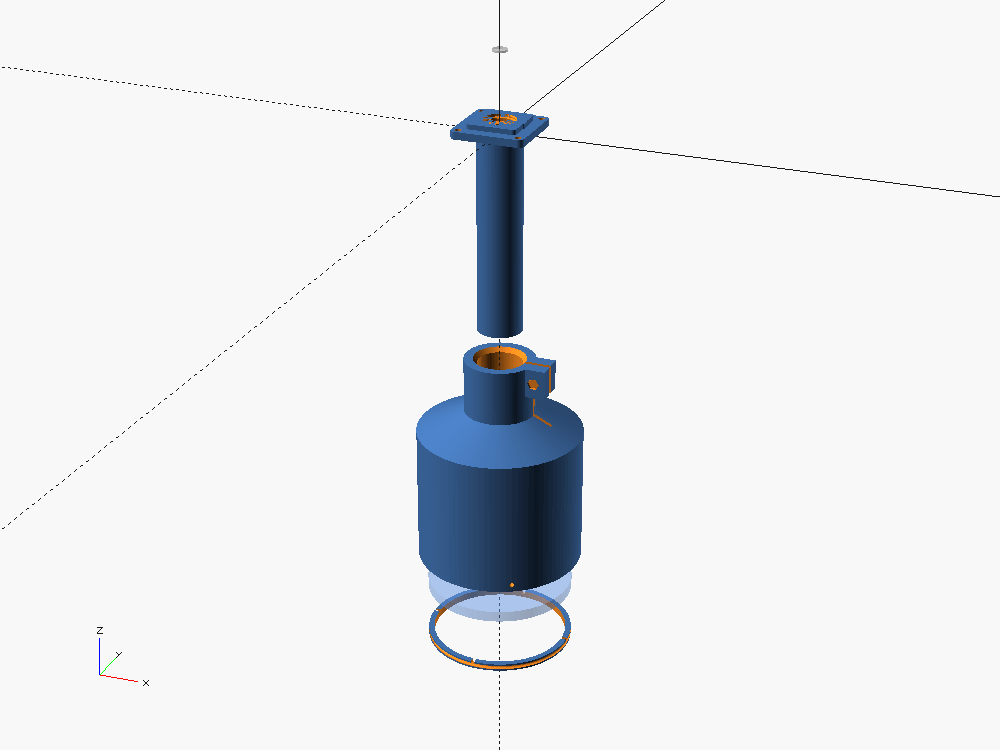
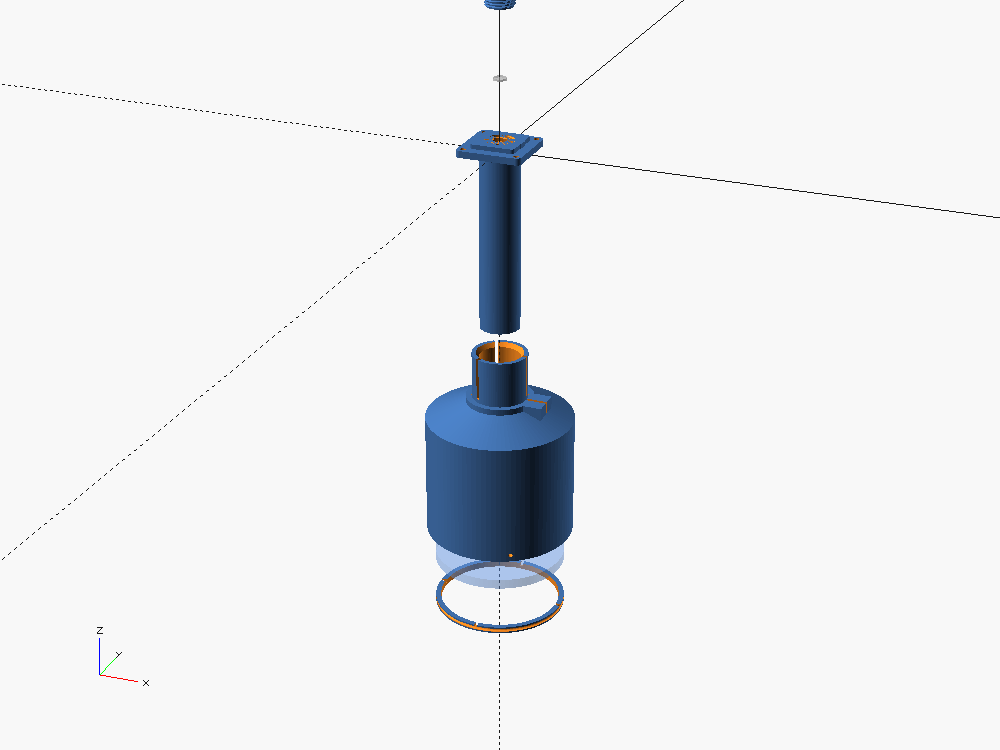
receiver: wrap-around split clamp collar instead of integral pinch lugs
The barrel's rear collar is now a 3-slot collet; a separate `clamp` ring wraps
it and one tangential M4 pinch screw squeezes the collet onto the stem. The ring
also covers the collet slots, so it doubles as a light seal on the split (the
old integral +X pinch lug left the slot open to ambient).

- new part `clamp` (scad/lib/receiver/clamp.scad); parts list + echo updated
- barrel.scad: drop the lug/block, collet OD now derived as `collar_od` in
  params.scad so clamp.scad can size to it; 3 relief slots joined at the base
- docs/receiver-optic.md: clamp description, stray-light note, and a sketch of
  the planned fine-focus helicoid

All parts render 2-manifold; `make check` green.

diff --git a/docs/receiver-optic.md b/docs/receiver-optic.md
@@ -6,9 +6,9 @@ It is its own component **type** (`components/receiver/*.toml`, `scad/lib/receiv
 like `lens`, because none of the camera sensor stack applies.
 
 ```
-   target  <--- [ Ø80 optic ] === barrel ===|clamp|=== stem ===[ flange ] --- mapscam body --- detector
-                 f ≈ 150 mm       (slides)              (fixed)    z = 0        (BPW34 + AFE)
-                                                                   808 nm filter in the stem, at the flange
+   target  <--- [ Ø80 optic ]== barrel ==(collet)[clamp] stem ==[ flange ]-- mapscam body -- detector
+                 f ≈ 150 mm      (slides on the stem)          (fixed)  z = 0    (BPW34 + AFE)
+                                                                 808 nm filter in the stem, at the flange
 ```
 
 The bought **Ø80 mm, f ≈ 150 mm** optic focuses the returned beam through a small
@@ -16,15 +16,20 @@ The bought **Ø80 mm, f ≈ 150 mm** optic focuses the returned beam through a s
 `body` bolted to the rear flange (same rectangular register + 4-corner M3 pattern
 as a camera `front_plate` — a `generic_29mm` body drops straight on).
 
-## Focus — draw-tube
+## Focus — draw-tube + wrap clamp
 
 Focus is the lens-to-detector distance. The wide **`barrel`** (holds the optic)
-telescopes over the narrow **`stem`** (fixed to the flange); a **split-clamp collar**
-on the barrel pinches the stem with one M3 screw. Slide to focus, tighten to lock.
+telescopes over the narrow **`stem`** (fixed to the flange). The barrel's rear
+collar is a **slit collet** (3 relief slots); a separate **`clamp`** ring wraps it
+and one tangential M4 pinch screw squeezes the collet onto the stem. The clamp ring
+also covers the collet slots, so it doubles as a light seal on the split.
+
+Slide to focus, tighten the clamp to lock.
 
 Default travel: **125 – 175 mm** (`focus_nominal ± focus_travel`), i.e. from a
 ~1 m target standoff to past infinity. Fine focus beyond that is the camera shim
-stack, exactly as for a normal lens.
+stack, exactly as for a normal lens — a printed fine-focus helicoid is the planned
+next step (see below).
 
 ## Coordinate convention
 
@@ -39,23 +44,26 @@ at `z = 0`); `dispatch.scad` slides it to `−focus_nominal` for the assembly vi
 pocket_bore   = element_d + 2·element_fit            // Ø80 optic pocket
 barrel_len    = focus_nominal − barrel_rear_gap      // optic rear face -> barrel rear face
 stem_len      = focus_travel + barrel_rear_gap + collar_len + 8
-collar_bore   = draw_od + 2·slide_fit                // barrel collar rides the stem here
+collar_bore   = draw_od + 2·slide_fit                // barrel collet bore, rides the stem
+collar_od     = collar_bore + 2·wall + 3             // collet OD
+clamp_id      = collar_od + clamp_fit                // wrap clamp grips here
 ```
 
 `assert()`s fail the render if the clear aperture leaves no seat rim, if a wall
-(barrel / stem / collar / filter retainer) is thinner than `wall`, if the focus
-travel reaches past the flange, or if `focus_nominal` is too short for the barrel.
+(barrel / stem / filter retainer) is thinner than `wall`, if the focus travel
+reaches past the flange, or if `focus_nominal` is too short for the barrel.
 
 ## Parts (`make vibrometer_80mm`)
 
 | Part | Prints | Notes |
 |---|---|---|
 | `stem` | 1 | flange + draw tube + 808 nm filter cell. Print flange-down, tube vertical. |
-| `barrel` | 1 | Ø90 × ~160 mm. Print collar-up. Big — budget the time / filament. |
+| `barrel` | 1 | Ø90 × ~160 mm; rear collar is a 3-slot collet. Print collar-up. Big — budget time / filament. |
+| `clamp` | 1 | wrap-around split collar; tangential M4 pinch. Print flat, split-up. |
 | `lens_retainer` | 1 | plain ring, held by the barrel's 3 radial M3 set screws. |
 | `filter_ring` | 1 | coarse-thread ring, clamps the filter from the body-cavity side. |
 
-Fasteners: 1 × M3 pinch screw + M3 nut (clamp); 3 × M3 set screws (lens retainer);
+Fasteners: 1 × M4 pinch screw + M4 nut (clamp); 3 × M3 set screws (lens retainer);
 4 × M3 into the body inserts (flange, same as a camera front plate).
 
 ## GUESSED numbers — measure and update `components/receiver/vibrometer_80mm.toml`
@@ -68,6 +76,17 @@ Fasteners: 1 × M3 pinch screw + M3 nut (clamp); 3 × M3 set screws (lens retain
 not exactly f = 150 mm, set `focus_nominal` to its actual back focus and keep
 `focus_travel` wide enough to cover your standoff range.
 
+## Fine focus (planned — not built yet)
+
+The draw-tube + clamp is coarse only. The intended fine focus is a **printed
+helicoid at the flange↔stem joint**: split `stem` off `flange`, give the flange a
+male fine-pitch boss and the stem a matching female collar, rotate the stem ~2
+turns for a few mm of continuous travel, and lock it with a radial M3 grub screw in
+the stem collar. That moves the whole optical tube relative to the (body-mounted)
+detector — standard camera-lens focus. ~±3 mm covers ∞ down to a few-metre standoff
+finely; the coarse slide handles closer targets. Adds no rotating joint that any
+cable crosses (the AFE stays on the fixed flange).
+
 ## Known limitations (v0 — nothing fit-tested)
 
 - **Cantilever.** A Ø90 barrel on a 39 mm flange is floppy held horizontal; plan on
@@ -76,7 +95,11 @@ not exactly f = 150 mm, set `focus_nominal` to its actual back focus and keep
   so marginal rays hit it at up to ~15° — enough to shift a narrow 808 nm passband.
   Fine for qualitative spectra; move it ahead of the focus (into a collimated space)
   if you need the full rejection.
-- **Single bearing.** The barrel rides the stem on one 30 mm collar; a second
+- **Stray light via the collet split.** The `clamp` ring covers the collet slots,
+  but the telescoping joint is not light-tight. The Ø6 field stop + the 808 nm
+  bandpass filter are the real defense; blacken the bores and, in sunlight, wrap
+  the clamp. See the notes in `design-notes.md`.
+- **Single bearing.** The barrel rides the stem on one 30 mm collet; a second
   bearing near the optic would cut focus wobble.
 - **Laser path not included** — receiver only, per the current plan. Bistatic
   transmit mount is a separate part.
